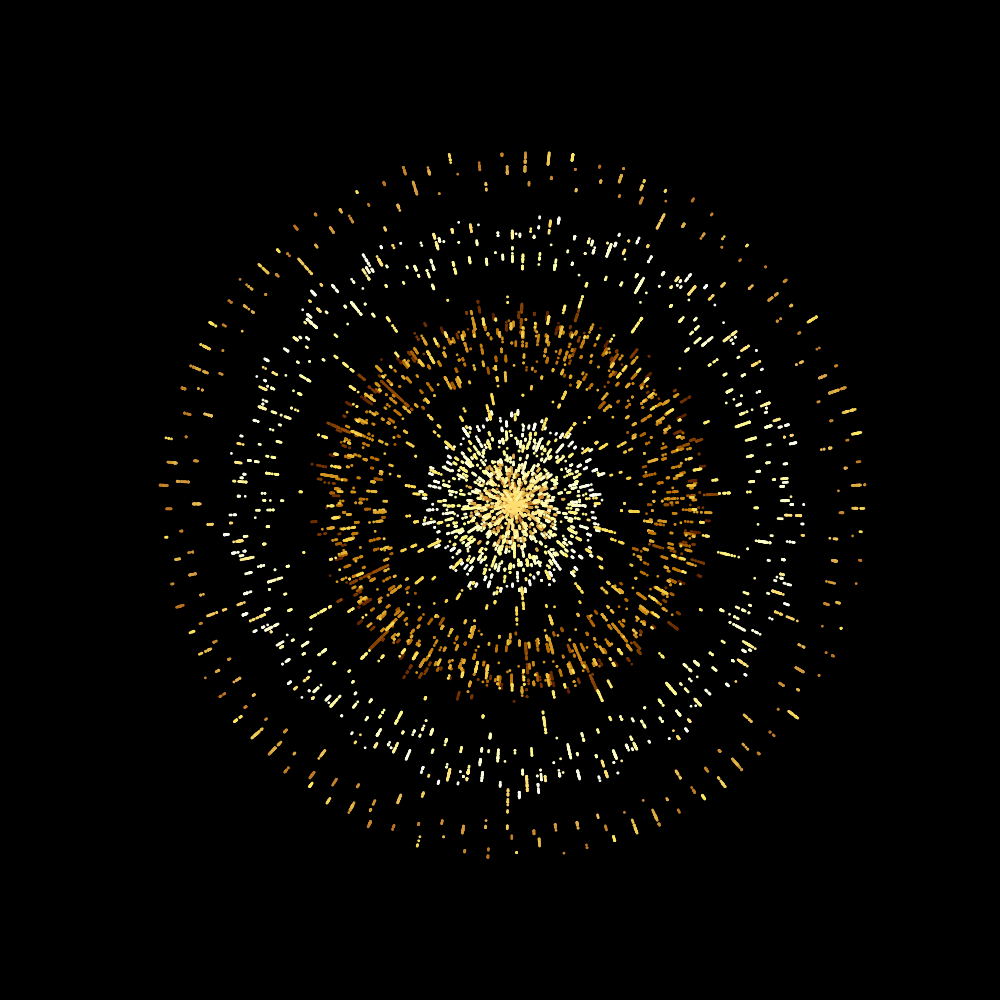
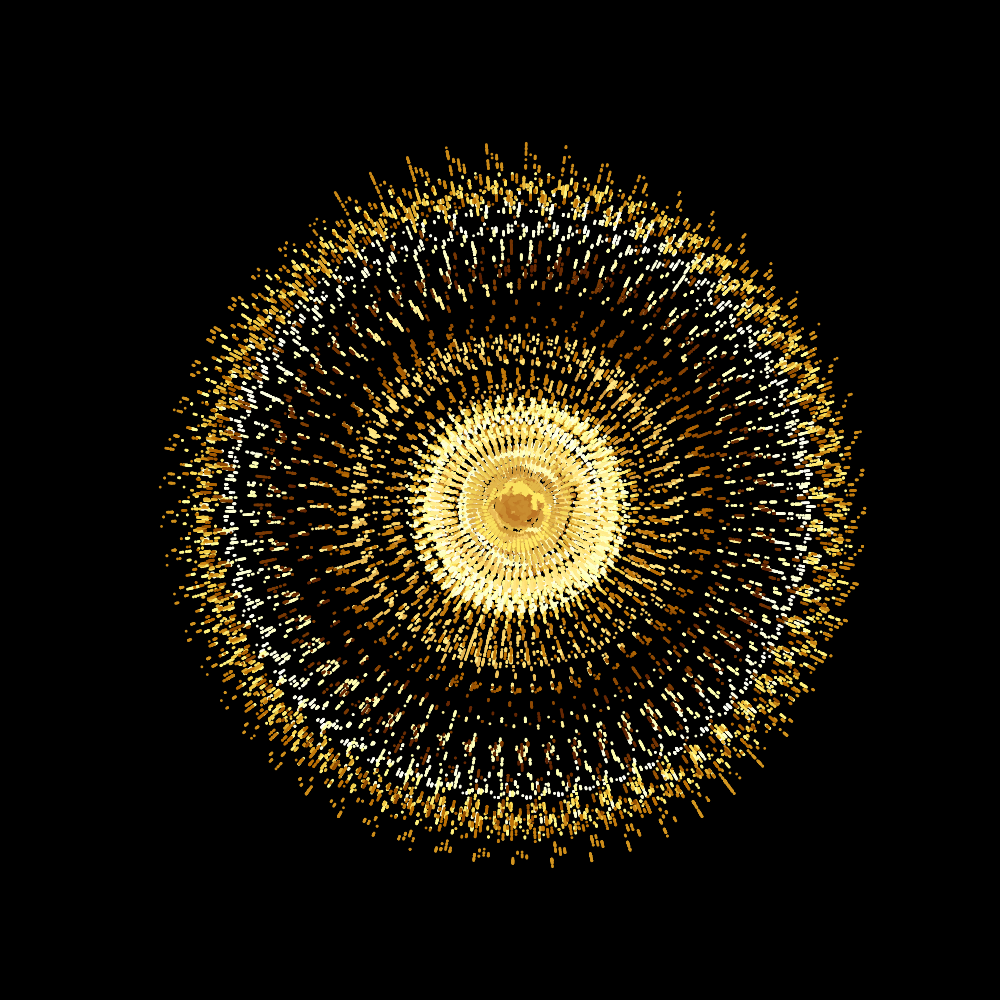
form validation wth flask-wtf and browser handles POST and only image refresh

Changed region(s): [[0.155, 0.155, 0.868, 0.868]]

diff --git a/templates/randomwalk.html b/templates/randomwalk.html
@@ -1,0 +1,26 @@
+<!DOCTYPE html>
+<html lang="en">
+  <head>
+    <meta charset="UTF-8" />
+    <meta http-equiv="X-UA-Compatible" content="IE=edge" />
+    <meta name="viewport" content="width=device-width, initial-scale=1.0" />
+    <title>Home</title>
+  </head>
+  <body>
+    <form method="POST" action="randomwalk" class="form-inline">
+      <div class="form__group">
+        {% for field in form %}
+        {{ field.label (class_="form__label") }} {{ field (class_="form__field") }}
+        <br />
+        {% endfor %}
+        <input type="submit" value="Run" /> <br />
+
+        {% for field in form %} {%- for error in field.errors %}
+        <span class="form__error">{{ error }}</span> <br />
+        {% endfor %} {% endfor %}
+      </div>
+    </form>
+    <br />
+    <img src="/static/polar.png" alt="image" />
+  </body>
+</html>

diff --git a/templates/error.html b/templates/error.html
@@ -7,9 +7,6 @@
     <title>Home</title>
 </head>
 <body>
-    <h1>Home</h1>
-    <br></br>
-    <a href="/randomwalk">Random Walk</a>
-
+    <h1>Error</h1>
 </body>
 </html>

diff --git a/main.py b/main.py
@@ -1,21 +1,36 @@
 from flask import Flask, render_template, url_for, request
-from randomwalk import polar
+from randomwalk import PolarRWForm, polarRW
 from random import randint
 
 app = Flask(__name__)
-app.config['SECRET_KEY'] = 'supersecretkey'
-app.config[''] = ''
+app.config["SECRET_KEY"] = "supersecretkey"
+app.config[""] = ""
 
-@app.route('/', methods=['GET',"POST"])
-@app.route('/home', methods=['GET',"POST"])
+
+@app.route("/", methods=["GET", "POST"])
+@app.route("/home", methods=["GET", "POST"])
 def home():
-    polar.gen_polar_picture(randint(10,30), randint(2,5))
-    return render_template('index.html')
+    return render_template("index.html")
 
-def redirect_url(default='home'):
-    return request.args.get('next') or \
-           request.referrer or \
-           url_for(default)
 
-if __name__ == '__main__':
+@app.route("/randomwalk", methods=["GET"])
+def randomwalkGET():
+    form = PolarRWForm.PRWForm()
+    return render_template("randomwalk.html", form=form)
+
+
+@app.route("/randomwalk", methods=["POST"])
+def randomwalkPOST():
+    form = PolarRWForm.PRWForm()
+    if form.validate_on_submit():
+        print("success")
+        polarRW.gen_polar_picture(float(form.dtheta.data), int(form.nsteps.data))
+    return render_template("randomwalk.html", form=form)
+
+
+def redirect_url(default="home"):
+    return request.args.get("next") or request.referrer or url_for(default)
+
+
+if __name__ == "__main__":
     app.run(debug=True)

diff --git a/randomwalk/PolarRWForm.py b/randomwalk/PolarRWForm.py
@@ -1,0 +1,36 @@
+from flask_wtf import FlaskForm
+from wtforms import StringField, SubmitField
+from wtforms.validators import DataRequired, ValidationError
+
+
+class PRWForm(FlaskForm):
+    class Meta:
+        csrf = False
+
+    dtheta = StringField(
+        label="Delta Theta [1.0 - 30.0]",
+        default="4",
+        validators=[DataRequired()],
+    )
+    nsteps = StringField(
+        label="No. of steps [1 - 10]",
+        default="5",
+        validators=[DataRequired()],
+    )
+
+    def validate_dtheta(form, field):
+        dtheta = 0.0
+        try:
+            dtheta = float(field.data)
+        except ValueError:
+            raise ValidationError("Invalid angle")
+
+        if dtheta < 1 or dtheta > 30:
+            raise ValidationError("Invalid angle")
+
+    def validate_nsteps(form, field):
+        if not field.data.isdigit():
+            raise ValidationError("Invalid steps.")
+        nsteps = int(field.data)
+        if nsteps < 1 or nsteps > 10:
+            raise ValidationError("Invalid steps")
